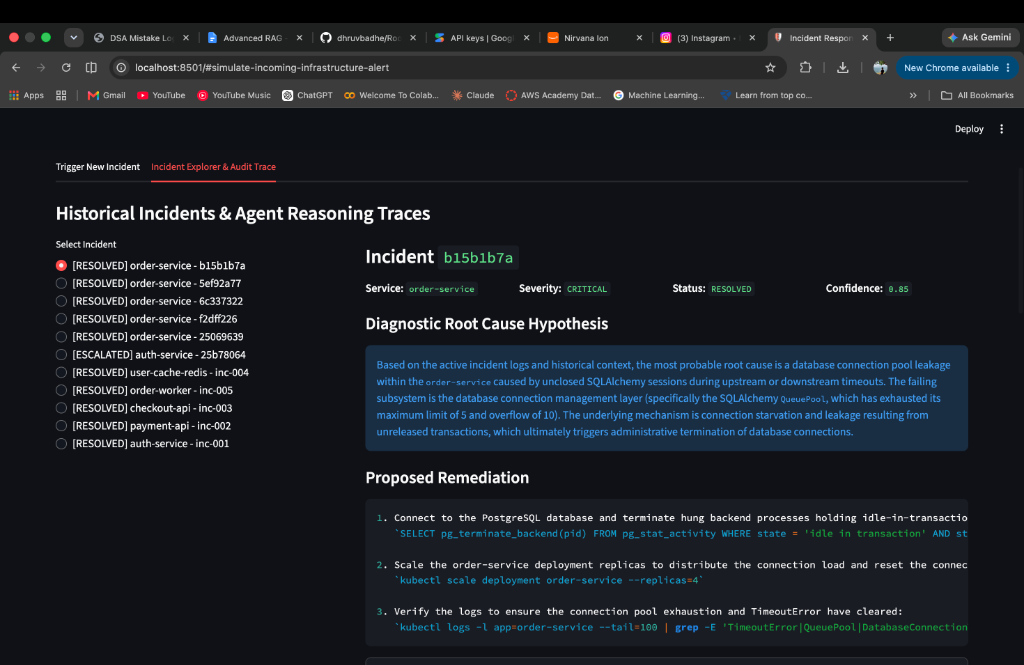
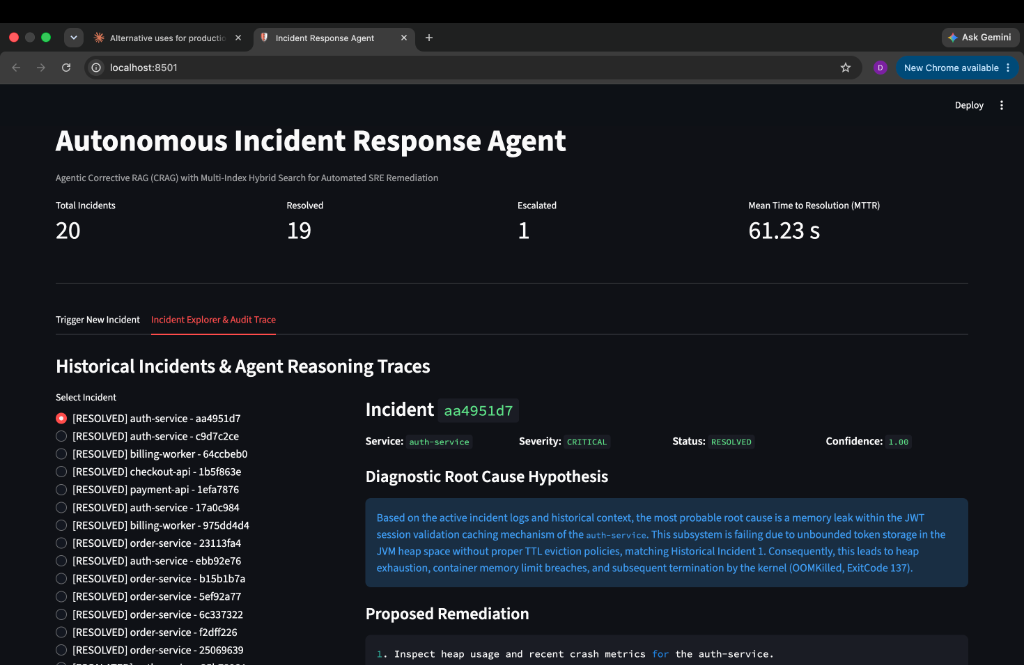
Update demo showcase screenshots and UI request timeout

diff --git a/frontend/streamlit_app.py b/frontend/streamlit_app.py
@@ -103,7 +103,7 @@ with tab_trigger:
 
             with st.spinner("Agentic StateGraph executing (Ingestion -> Diagnosis -> CRAG Evaluation -> Runbook Retrieval -> Post-Mortem)..."):
                 try:
-                    res = requests.post(f"{API_BASE_URL}/api/incidents/triage", json=payload, timeout=90)
+                    res = requests.post(f"{API_BASE_URL}/api/incidents/triage", json=payload, timeout=240)
                     if res.status_code == 201:
                         data = res.json()
                         st.success(f"Incident Triage Completed! Assigned ID: {data.get('id')}")
